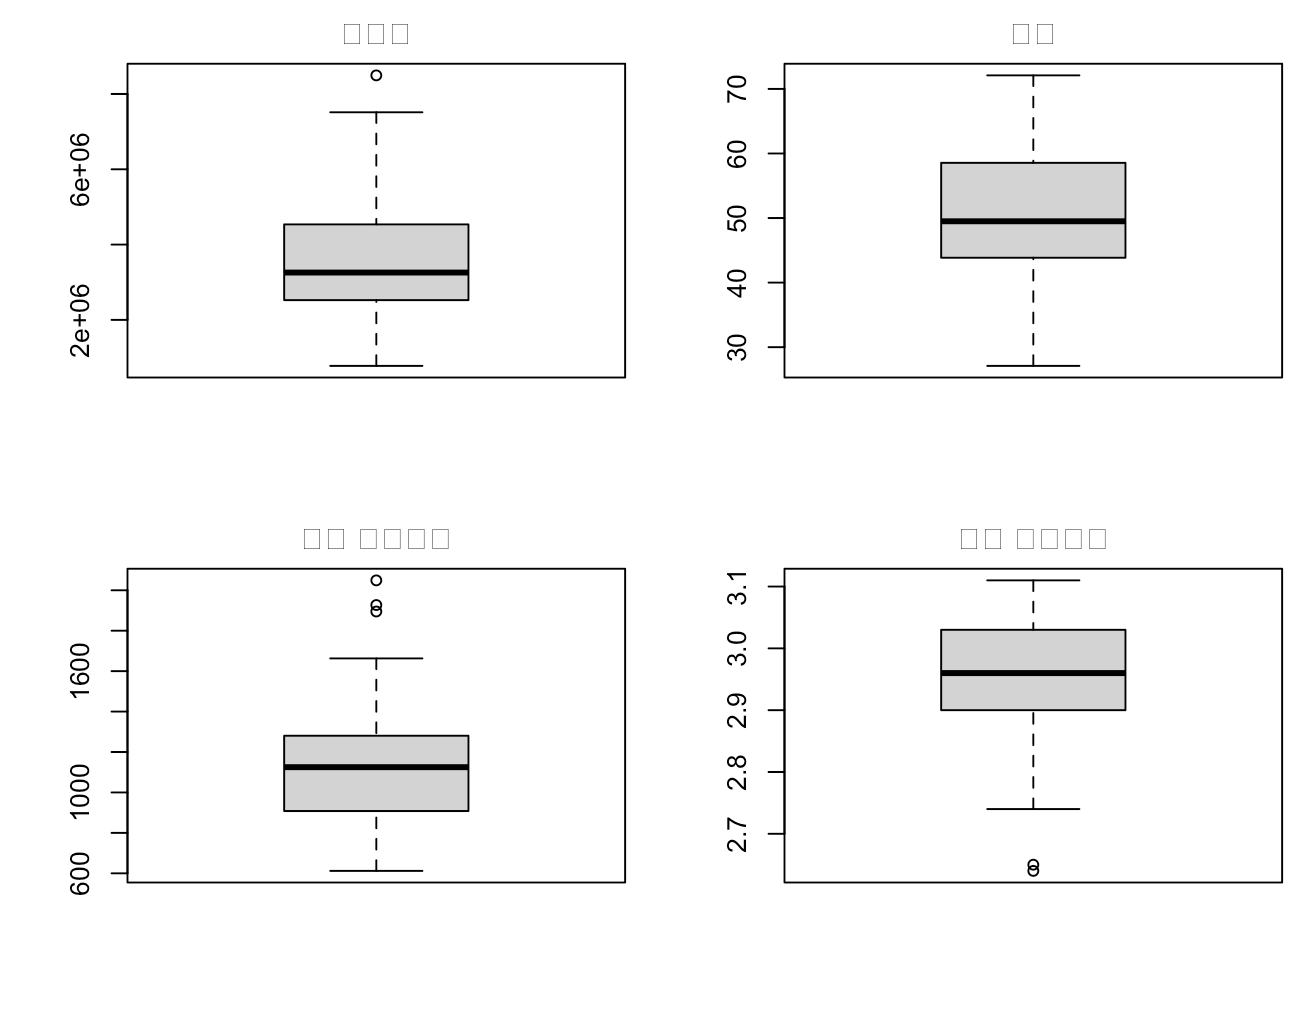
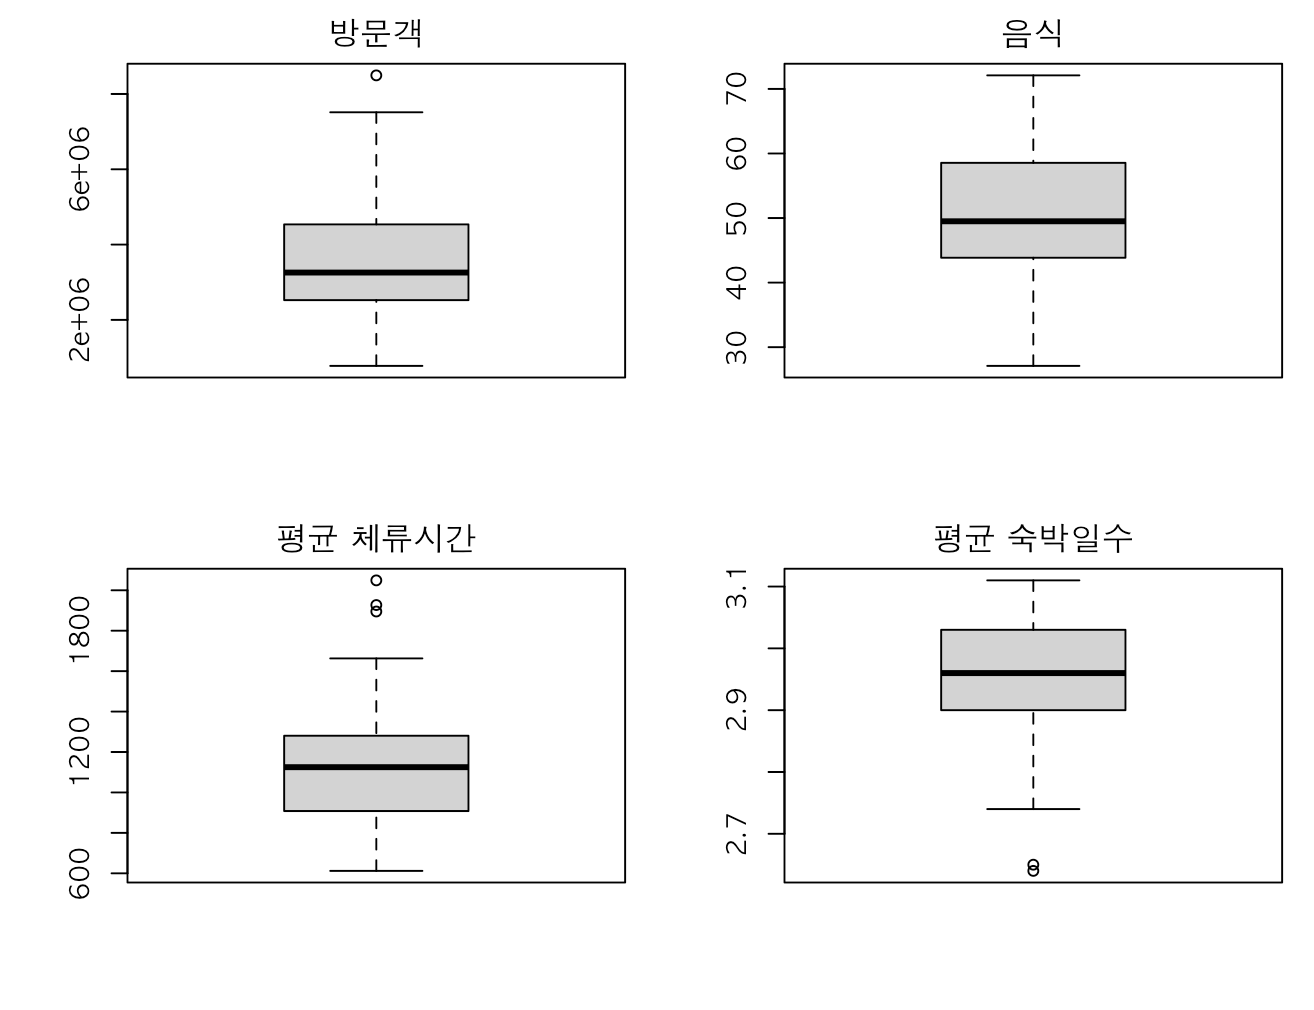
fix: fix img text broken

diff --git a/cluster1/README.md b/cluster1/README.md
@@ -80,7 +80,7 @@ par(mfrow = c(1, 1))
              0            0            0            0            0            0            0            0            0            0            0            0            0
 ```
 
-![img](boxplot.png)
+![img](./boxplot.png)
 
 -----
 
@@ -120,7 +120,7 @@ corrplot(cor_matrix, method = "color", type = "upper", order = "hclust",
  3rd Qu.:4536441   3rd Qu.:1280   3rd Qu.:3.030
  Max.   :8494150   Max.   :2049   Max.   :3.110
 ```
-![img](corrplot.png)
+![img](./corrplot.png)
 
 -----
 
